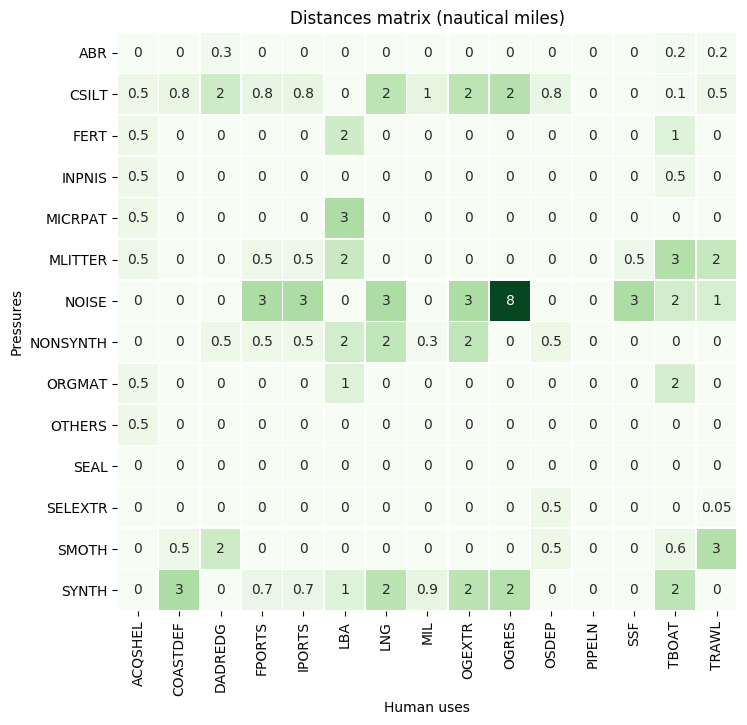
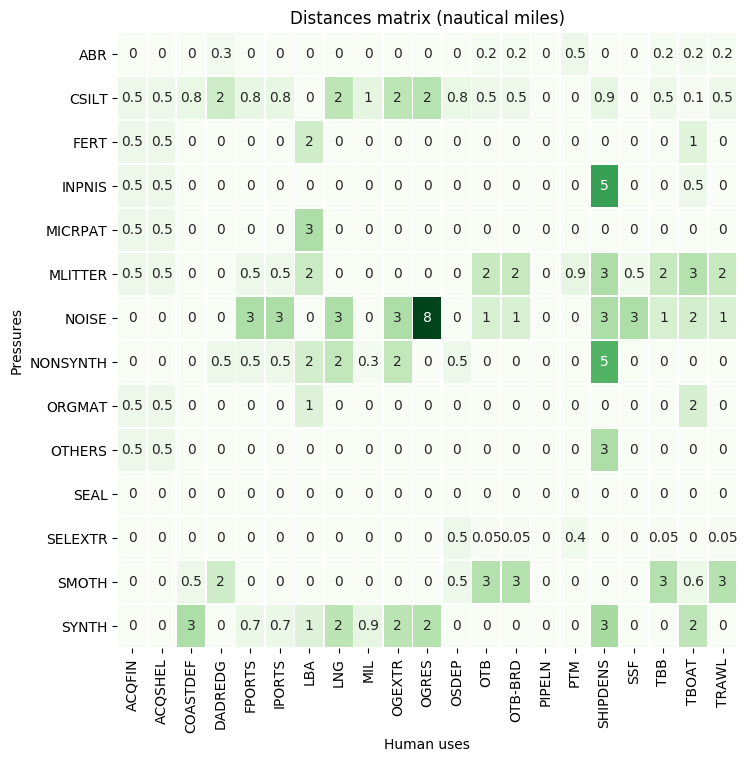
pressure assessment

diff --git a/docs/modules/cea/index.rst b/docs/modules/cea/index.rst
@@ -37,25 +37,28 @@ Task 1: pressure assessment
 The pressure assessment estimates the propagation of pressures generated by one or multiple
 anthropogenic uses.
 
-Considering a single grid cell of analysis, the value of the single pressure j is given as:
+Considering a single grid cell of analysis, the value of the pressure j is given as:
 
 .. math::
     P_{j}(x) = \sum_{i=1}^{l} w_{i, j} \; p_{i,j}(x)
+   :label: eq:pj
 
 where:
 
 * :math:`P_j` = j-th pressure
 * x = single grid cell of analysis
 * l = number of human uses
-* :math:`w_{i,j}` = use-specific relative pressure weight
+* :math:`w_{i,j}` = use-specific relative pressure weight: a measure of the relative importance of different
+  uses contributing to a certain pressure
 
-In the above equation :math:`p_{i,j}(x)` equals the contribution of the i-th human use to the j-th pressure.
-By default, in order to simulate the pressure dispersion from the source (human uses), the tools4MSP CEA module
+In the above equation :math:`p_{i,j}(x)` represents the contribution of the i-th human use to the j-th pressure.
+By default, in order to simulate the pressure dispersion from the source (human use), the tools4MSP CEA module
 implements a flexible distance model based on a 2D convolution with a gaussian kernel function.
 Hence, :math:`p_{i,j}` is given as:
 
 .. math::
-    p_{i,j}(x) = \sum_{x'\in X} U_i(x') \; G(d(x',x), \sigma)
+    p_{i,j}(x) = \sum_{x'\in X} U_i(x') \; G(d(x',x), b_{i,j}/2)
+   :label: eq:pij
 
 where:
 
@@ -63,35 +66,16 @@ where:
 * :math:`U_i(x')` =  intensity or presence/absence of th i-th human use over the cell x'
 * G = gaussian function
 * d(x',x) = euclidean distance between cell x and cell x'
-* :math:`\sigma` = standard deviation
+* :math:`b_{i,j}` = buffer distance varying from 0 (local pressure) to 50 km
 
-The convolution distance model can be applied to any human use independently from its
+The pressure assessment based on the convolution distance model can be applied to any human use independently from its
 spatial structure (point, polygon or line feature).
-
-For each use-pressure combination, two different input parameters are needed:
-
-* buffer distance: which can vary from 0 (local pressure) to 50 km.
-* pressure weight: a measure of the relative importance of different uses contributing to a certain pressure
-
+According to the Equations :eq:`eq:pj` :eq:`eq:pij` "buffer distance" and "pressure weight" are the required input
+parameters for each use-pressure combination.
 Such parameters are usually expert-based and they are derived from stakeholder engagement. In addition, they may
-vary from area to area. Figure :numref:`cea-weights-matrix` shows and example of pressure weights matrix for the
+vary from area to area. Figures :numref:`cea-weights-matrix` and :numref:`cea-distances-matrix` show
+the pressure weight and the buffer distance values for each use-pressure combination in  the
 Adriatic sea.
-
-.. figure:: images/cea_example_spatial_convolution.png
-   :alt: Example of spatial convolution
-   :align: center
-   :name: cea-example-spatial-convolution
-   :width: 100%
-
-   Example of convolution distance model result. A 10 km distance model was applied to maritime transport desity layer
-   for the Adriatic Sea.
-
-Alternatively, in case of non-isotropic propagation of
-pressures generated by complex hydrodynamic phenomena (e.g. river plume induced currents, transitional waters),
-the users are allowed to directly integrate pressure indicators from measured datasets or generated by external
-models, such as hydrodynamic model applications (see modelling of land-based activities on Menegon et al., 2017
-and Depellegrin et al., 2017).
-
 
 .. figure:: images/cea_weights_matrix.png
    :alt: Weights matrix for pressures combination
@@ -100,6 +84,38 @@ and Depellegrin et al., 2017).
    :width: 75%
 
    Example of weights matrix.
+
+.. figure:: images/cea_distances_matrix.png
+   :alt: Distances matrix for pressures spread
+   :align: center
+   :name: cea-distances-matrix
+   :width: 75%
+
+   Example of distances matrix.
+
+Figure :numref:`cea-example-spatial-convolution` illustrates an example of the distance model convolution (:eq:`eq:pij`).
+THe model has been applied for estimating the spatial distribution of the pressure "Introduction of non-synthetic
+substances and compounds" (NONSYNTH) exerted by the source "Maritime transport" (SHIPDENS).
+
+.. figure:: images/cea_example_spatial_convolution.png
+   :alt: Example of spatial convolution
+   :align: center
+   :name: cea-example-spatial-convolution
+   :width: 100%
+
+   Example of convolution distance model result. A 8 nm distance model was applied to maritime transport desity layer
+   for the Adriatic Sea.
+
+Advanced pressure assessment
+############################
+
+Alternatively to the default pressure assessment, in case of non-isotropic propagation of
+pressures generated by complex hydrodynamic phenomena (e.g. river plume induced currents, transitional waters),
+the model allows to directly integrate pressure indicators from measured datasets or generated by external
+models, such as hydrodynamic model applications (see modelling of land-based activities on Menegon et al., 2017
+and Depellegrin et al., 2017).
+
+
 
 
 Task 2: effects/impacts assessments
@@ -167,14 +183,6 @@ Weights and distances matrix
 ++++++++++++++++++++++++++++
 
 
-
-.. figure:: images/cea_distances_matrix.png
-   :alt: Distances matrix for pressures spread
-   :align: center
-   :name: cea-distances-matrix
-   :width: 75%
-
-   Example of distances matrix.
 
 
 Sensitivity
